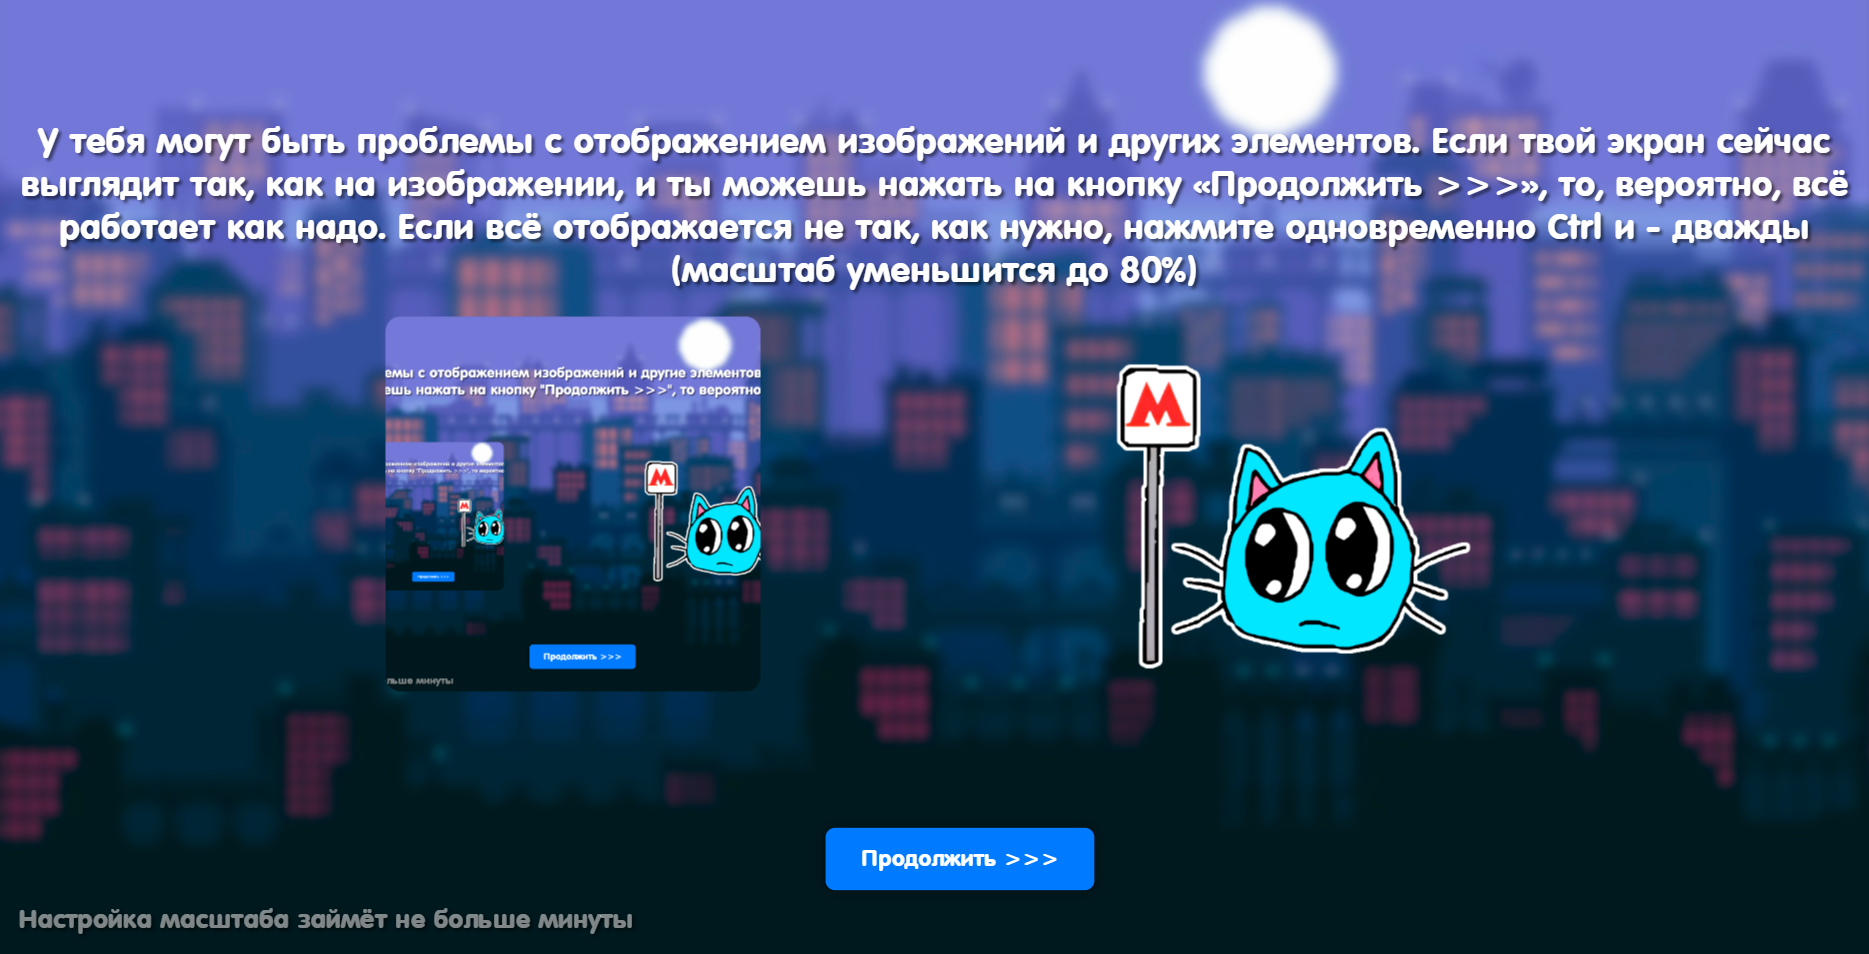
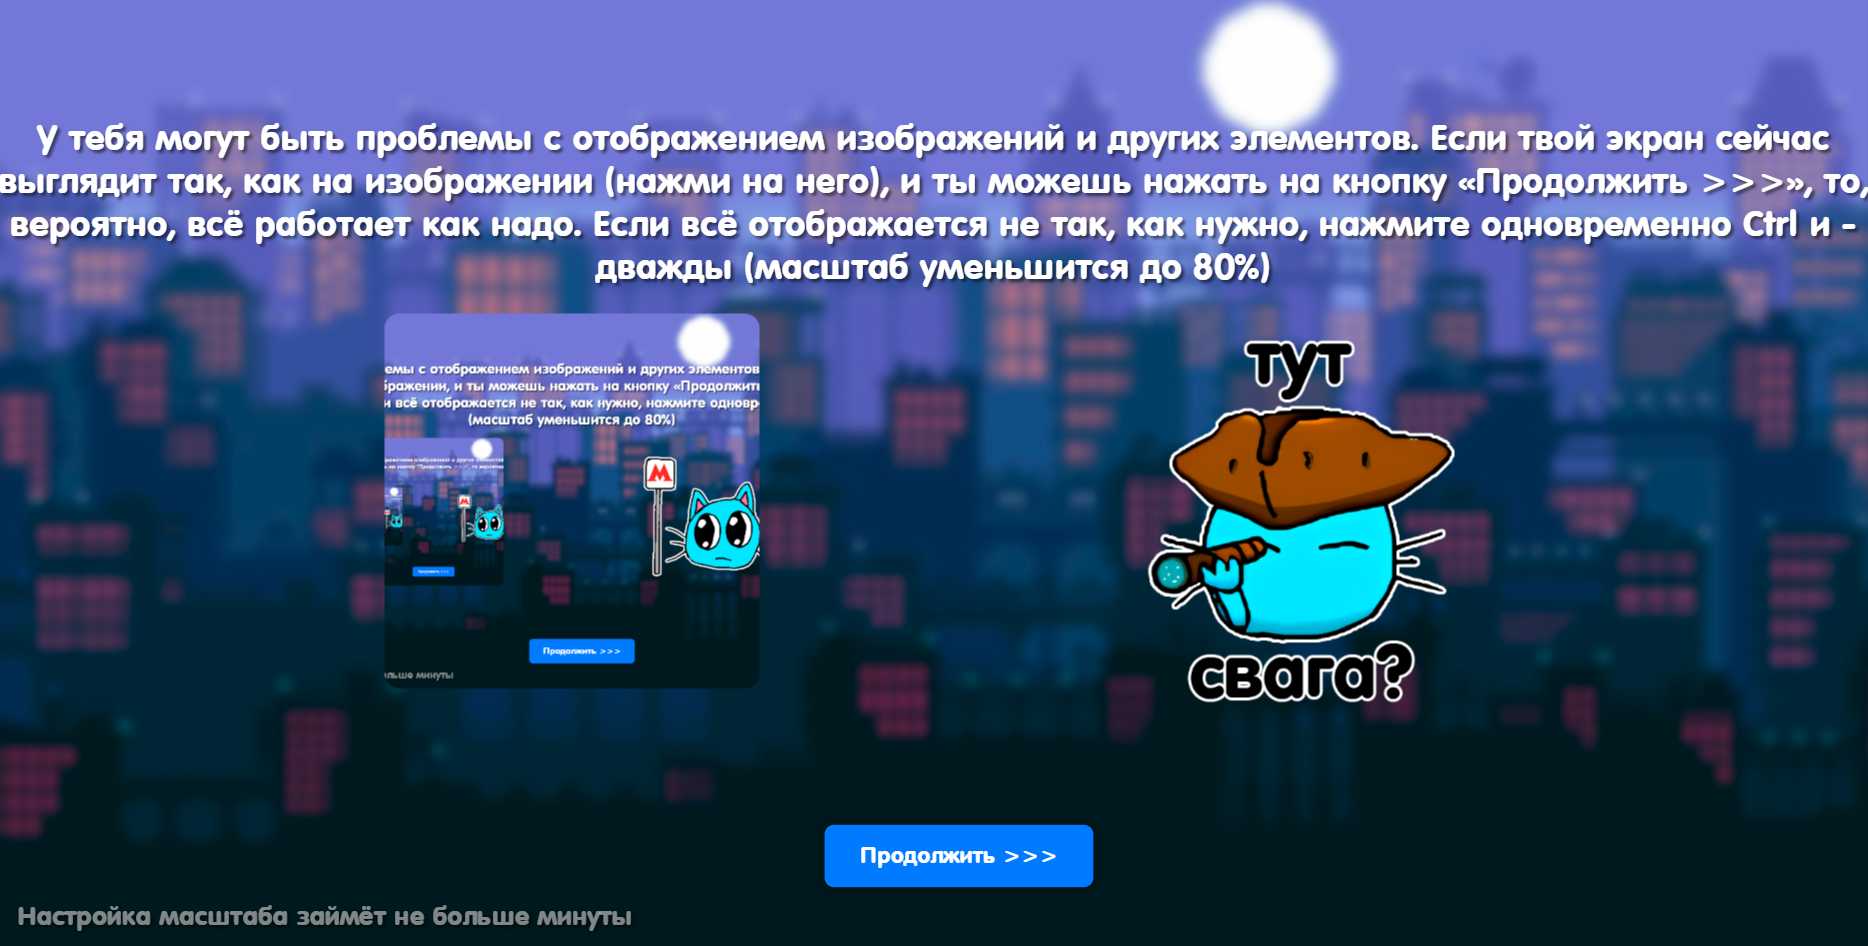
2

diff --git a/index.html b/index.html
@@ -36,7 +36,7 @@
     <div class="image-container right fade-in">
         <img src="static/images/stickers/svaga.png" alt="Изображение 2"
         data-sound="static/sounds/sound1.mp3">
-        <div class="image-tooltip">ладно, подожду ещё...</div>
+        <div class="image-tooltip">Это пробный стикер</div>
     </div>
 
     <audio id="hover-sound"></audio>
